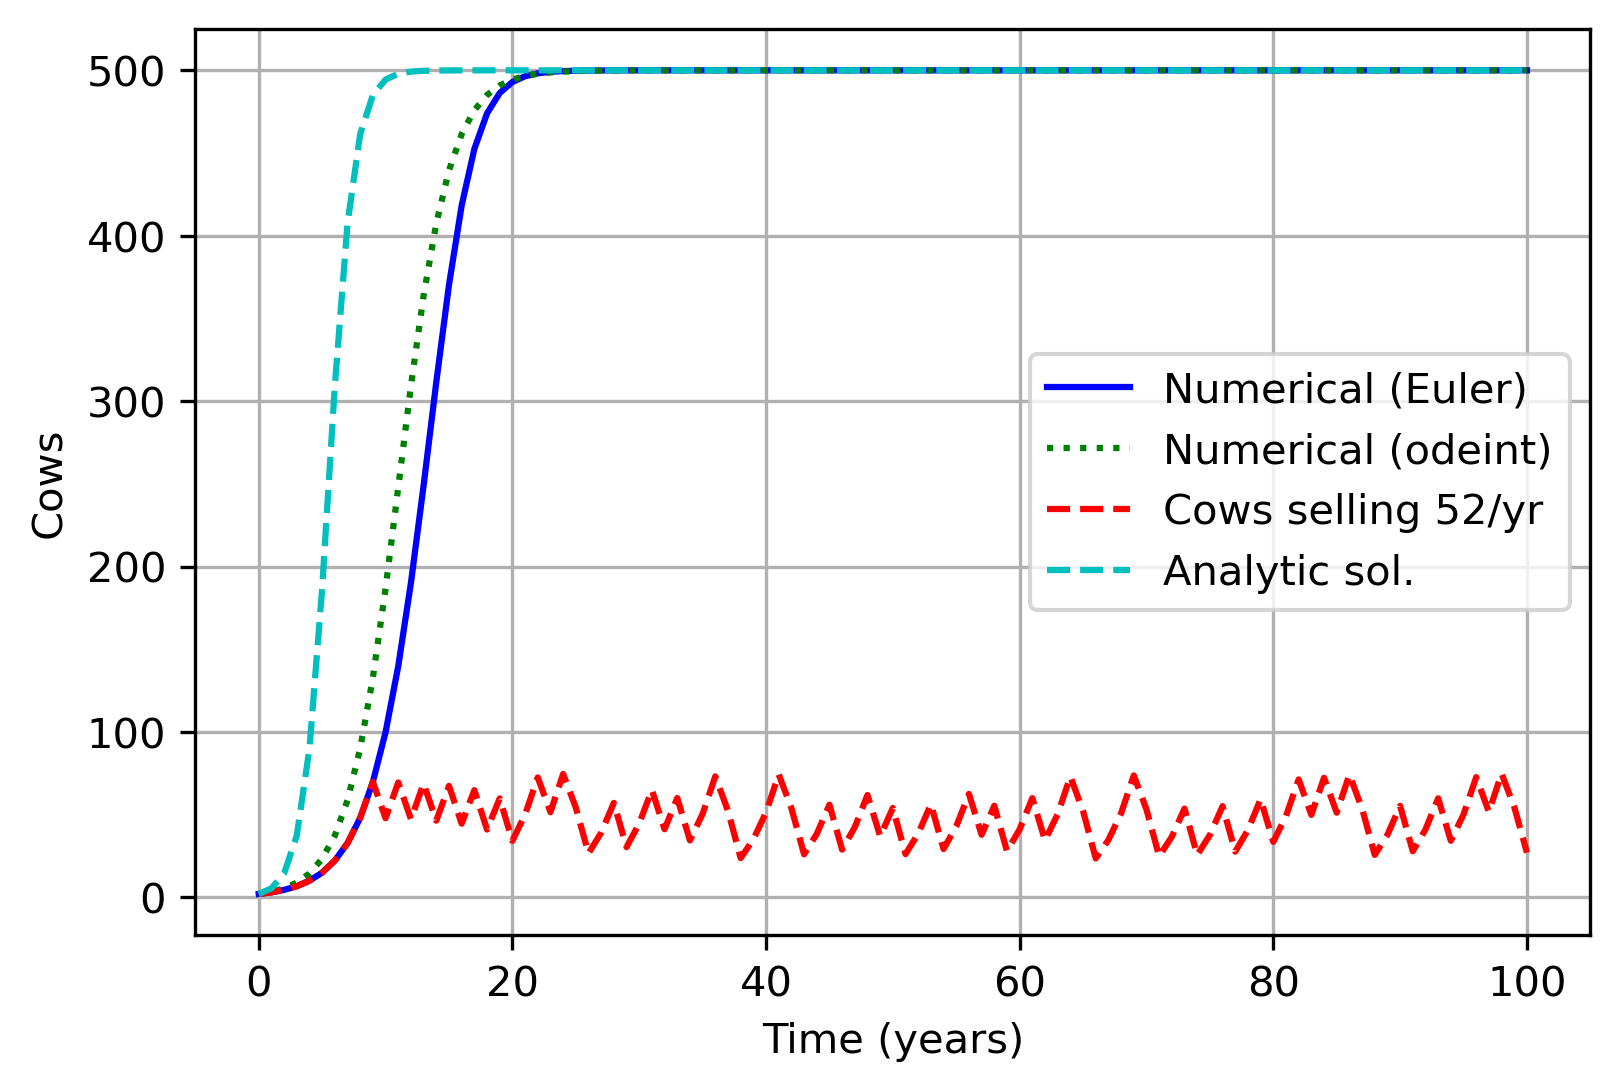
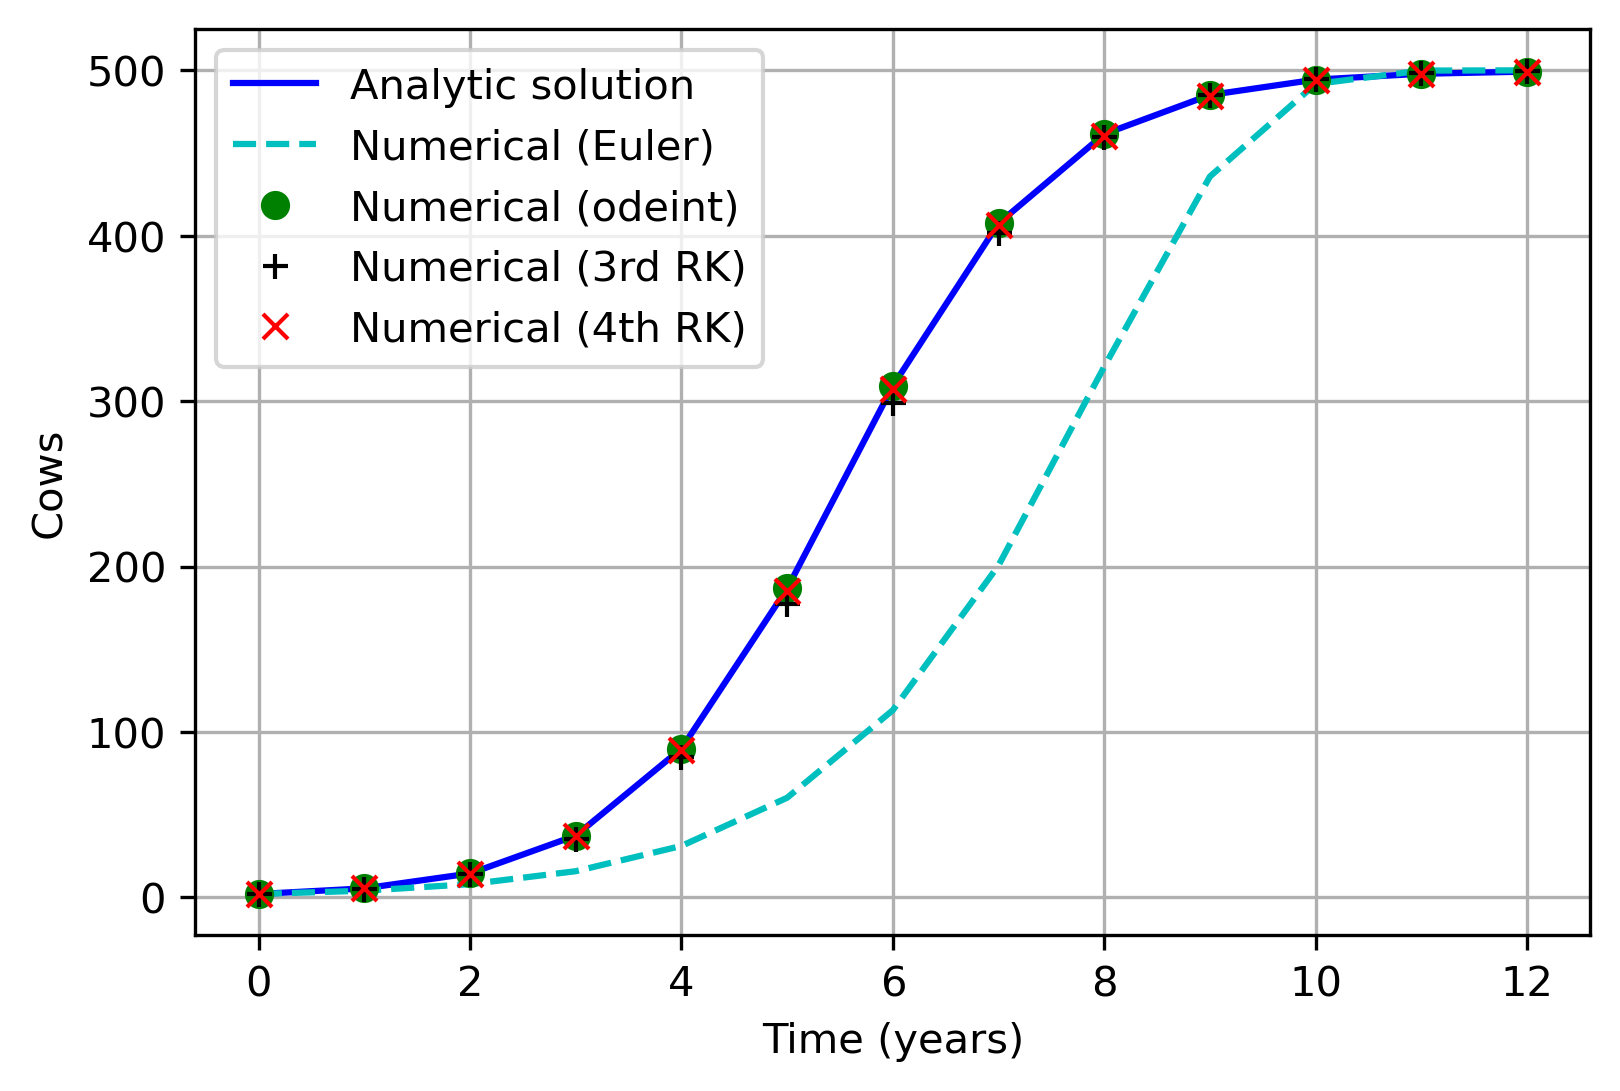
Cows solution added

diff --git a/q2_cows.py b/q2_cows.py
@@ -3,13 +3,27 @@
 """
 BE523 Biosystems Analysis & Design
 HW17 - Question 2. Logistic model of cows
+       Haley's solution
 
-Created on Sat Mar 13 19:01:08 2021
+Created on Wed Mar 17 14:28:44 2021
 @author: eduardo
 """
 import numpy as np
 import matplotlib.pyplot as plt
 from scipy.integrate import odeint
+
+dt = 1
+N_t = 12
+t = np.linspace(0, N_t*dt, N_t+1)
+P_CN = np.zeros(len(t))
+P_3RK = np.zeros(len(t))
+P_4RK = np.zeros(len(t))
+r = 1
+K = 500
+P0 = 2
+
+P_Euler = np.zeros(len(t))
+P_CN[0] = P_Euler[0] = P_3RK[0] = P_4RK[0] = P0
 
 def cows(P0, t, coeff):
     """ Cows model differential equation
@@ -19,69 +33,52 @@ def cows(P0, t, coeff):
     """
     P = P0
     r, K = coeff
-    dP = r * (K - P) * P  # differential equation dP/dt
+    dP = r * (1 - P/K) * P  # differential equation dP/dt
     return dP
 
-dt = 1  # time step in years
-P0 = 2
-steps = 100
-sell = 52  # one cow per week, in one year=52
-r = 0.001  # growth rate, per year
-K = 500  # carrying capacity
-
-t = np.array(range(0, steps+1, dt))
-# t = np.linspace(0, steps, int(steps/dt)+1)  # when dt is not integer
-P = np.zeros(len(t))
-Psell = np.zeros(len(t))
-P[0], Psell[0] = P0, P0
-
-dPselldt = np.zeros(len(t))
-dPdt = np.zeros(len(t))
-dPdt2 = np.zeros(K+1)
-
-# Numerical solutions
 for i in range(1, len(t)):
-    ################### No sell ##################
-    # Numerical solution, Euler
-    dPdt[i] = r*(K - P[i-1])*P[i-1]
-    P[i] = P[i-1] + dPdt[i]*dt
-    ################### Selling cows #############
-    dPselldt[i] = r*(K - Psell[i-1])*Psell[i-1]
-    # Psell[i] = Psell[i-1] + dPselldt[i]*dt - sell
-    if Psell[i-1] > sell:
-        Psell[i] = Psell[i-1] + dPselldt[i]*dt - sell
-    else:
-        Psell[i] = Psell[i-1] + dPselldt[i]*dt
+    #**************************** Euler ***************************************
+    P_Euler[i] = P_Euler[i-1] + r*P_Euler[i-1]*(1-(P_Euler[i-1]/K))*dt
+    #************************ Crank-Nicholson *********************************
+    dP1 = r * dt * P_CN[i-1] * (1-P_CN[i-1]/K)
+    P_future = P_CN[i-1] * dP1
+    dP2 = r * dt * P_future * (1-P_future/K)
+    dPavg = (dP1+dP2)/2
+    P_CN[i] = P_CN[i-1] + dPavg
+    # ********************** 3rd order Runge-Kutta ****************************
+    k1 = r * dt * P_3RK[i-1] * (1 - P_3RK[i-1]/K)
+    P_half = P_3RK[i-1] + k1 / 2
+    k2 = P_half * r * (1 - P_half/K) * dt
+    P_future_3RK = P_3RK[i-1] + 2 * k2 - k1
+    k3 = r * (1-P_future_3RK/K) * dt * P_future_3RK
+    k_avg = (k1 + 4*k2 + k3) / 6
+    P_3RK[i] = P_3RK[i-1] + k_avg
+    # ********************** 4th order Runge-Kutta ****************************
+    k1_4RK = r * P_4RK[i-1] * (1-P_4RK[i-1]/K) * dt
+    P_half_4RK =P_4RK[i-1] + k1_4RK/2
+    k2_4RK = r * P_half_4RK * (1 - P_half_4RK/K) * dt
+    P_half2 = P_4RK[i-1] + k2_4RK/2
+    k3_4RK = r * P_half2 * (1 - P_half2/K) * dt
+    P_future_4RK = P_4RK[i-1] + k3_4RK
+    k4_4RK = r * P_future_4RK * (1 - P_future_4RK/K) * dt
+    k_avg_4RK = (k1_4RK + 2*k2_4RK + 2*k3_4RK + k4_4RK)/6
+    P_4RK[i] = P_4RK[i-1] + k_avg_4RK
 
 # Get a solution to the differential equations using 'odeint'
 coefficients = (r, K)
 P_ode = odeint(cows, P0, t, args=(coefficients,))
 
 # Make predictions with the exponential eq. (analytic solution)
-# dt = 0.1
-r=1
-# time = np.linspace(0, steps, int(steps/dt)+1)
-# Pana = (K * P0 * np.exp(r*time)) / (K + P0 * (np.exp(r*time) - 1))
 Pana = (K * P0 * np.exp(r*t)) / (K + P0 * (np.exp(r*t) - 1))
 
-# # dP/dt2
-# for i in range(1, K):
-#     dPdt2[i] = r*(K-i)*i - sell
-
 plt.figure(0)
-plt.plot(t, P, 'b-', label='Numerical (Euler)')
-plt.plot(t, P_ode[:,0], 'g:', label='Numerical (odeint)')
-plt.plot(t, Psell, 'r--', label='Cows selling %d/yr' % sell)
-plt.plot(t, Pana, 'c--', label='Analytic sol.')
+plt.plot(t, Pana, 'b-', label='Analytic solution')
+plt.plot(t, P_Euler, 'c--', label='Numerical (Euler)')
+plt.plot(t, P_ode[:,0], 'go', label='Numerical (odeint)')
+plt.plot(t, P_3RK, 'k+', label='Numerical (3rd RK)')
+plt.plot(t, P_4RK, 'rx', label='Numerical (4th RK)')
 plt.legend(loc='best')
 plt.xlabel('Time (years)')
 plt.ylabel('Cows')
 plt.grid()
 plt.savefig('q2_cows.png', dpi=300, bbox_inches='tight')
-
-# plt.figure(1)
-# plt.plot(range(K+1), dPdt2, 'b-')
-# plt.xlabel('K')
-# plt.ylabel('dP/dt2')
-# plt.grid()
-# # plt.savefig('q10_cows_dPdt2.png', dpi=300, bbox_inches='tight')

diff --git a/q1_binary_fission.py b/q1_binary_fission.py
@@ -54,4 +54,4 @@ plt.plot(t, B, 'kx', label='Numerical (odeint)')
 plt.plot(t, Bexp, 'r-', label=r'Analytic Sol. $\mu=$%.2f' % mu)
 plt.legend(loc='best')
 plt.xlabel('Time (days)'); plt.ylabel('Bacteria population')
-plt.savefig('q1_binary_fission.png', dpi=300, bbox_inches='tight')
+# plt.savefig('q1_binary_fission.png', dpi=300, bbox_inches='tight')
